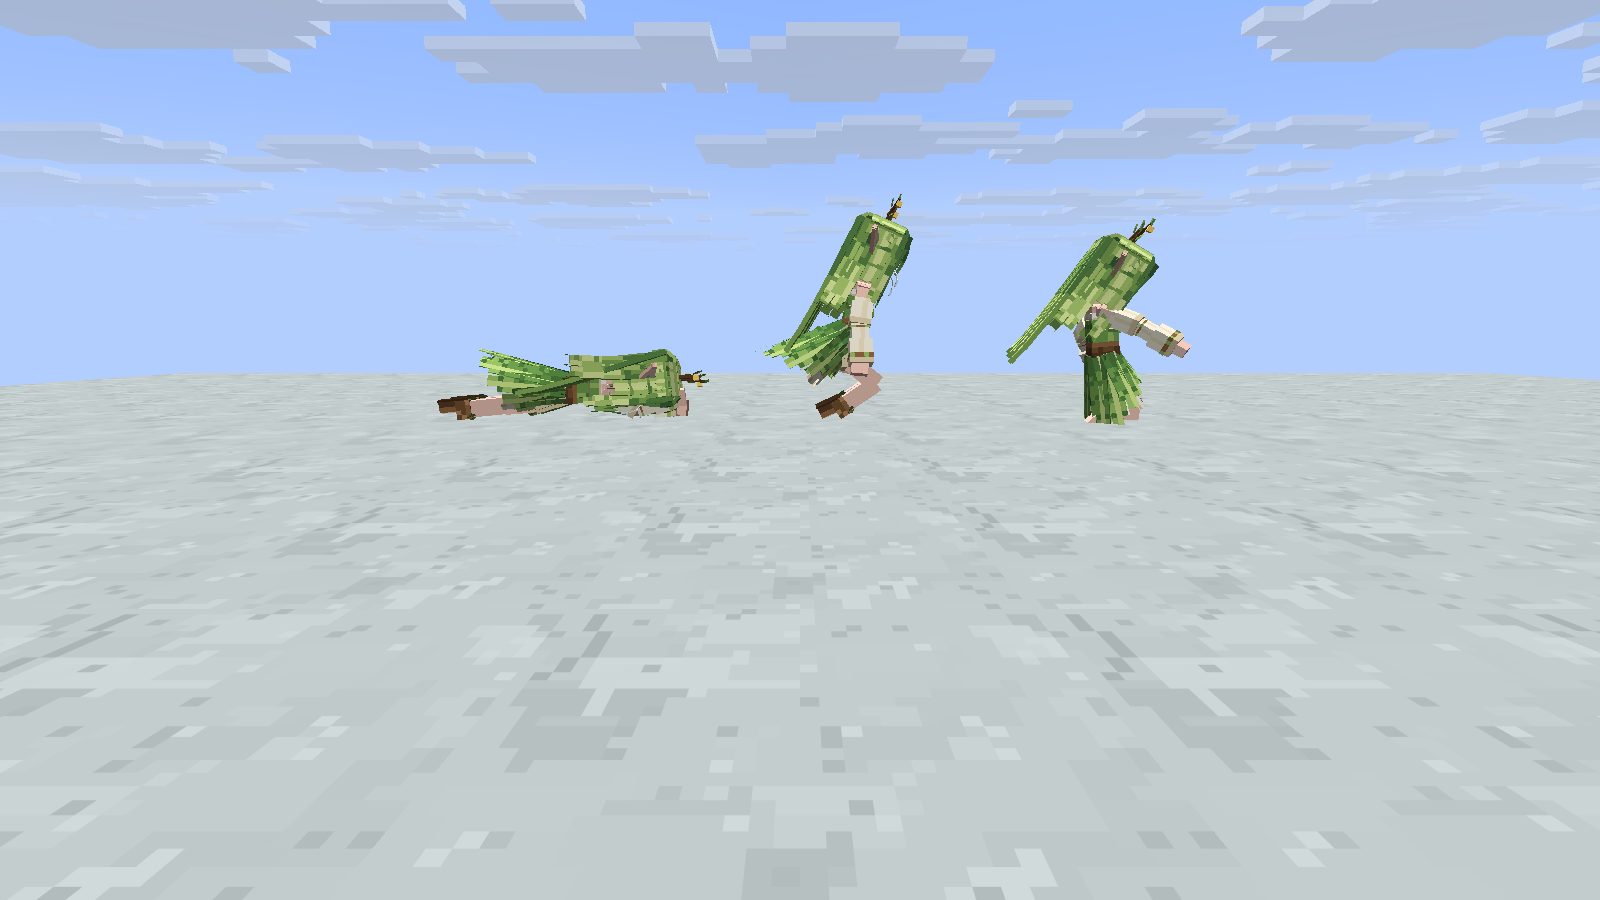
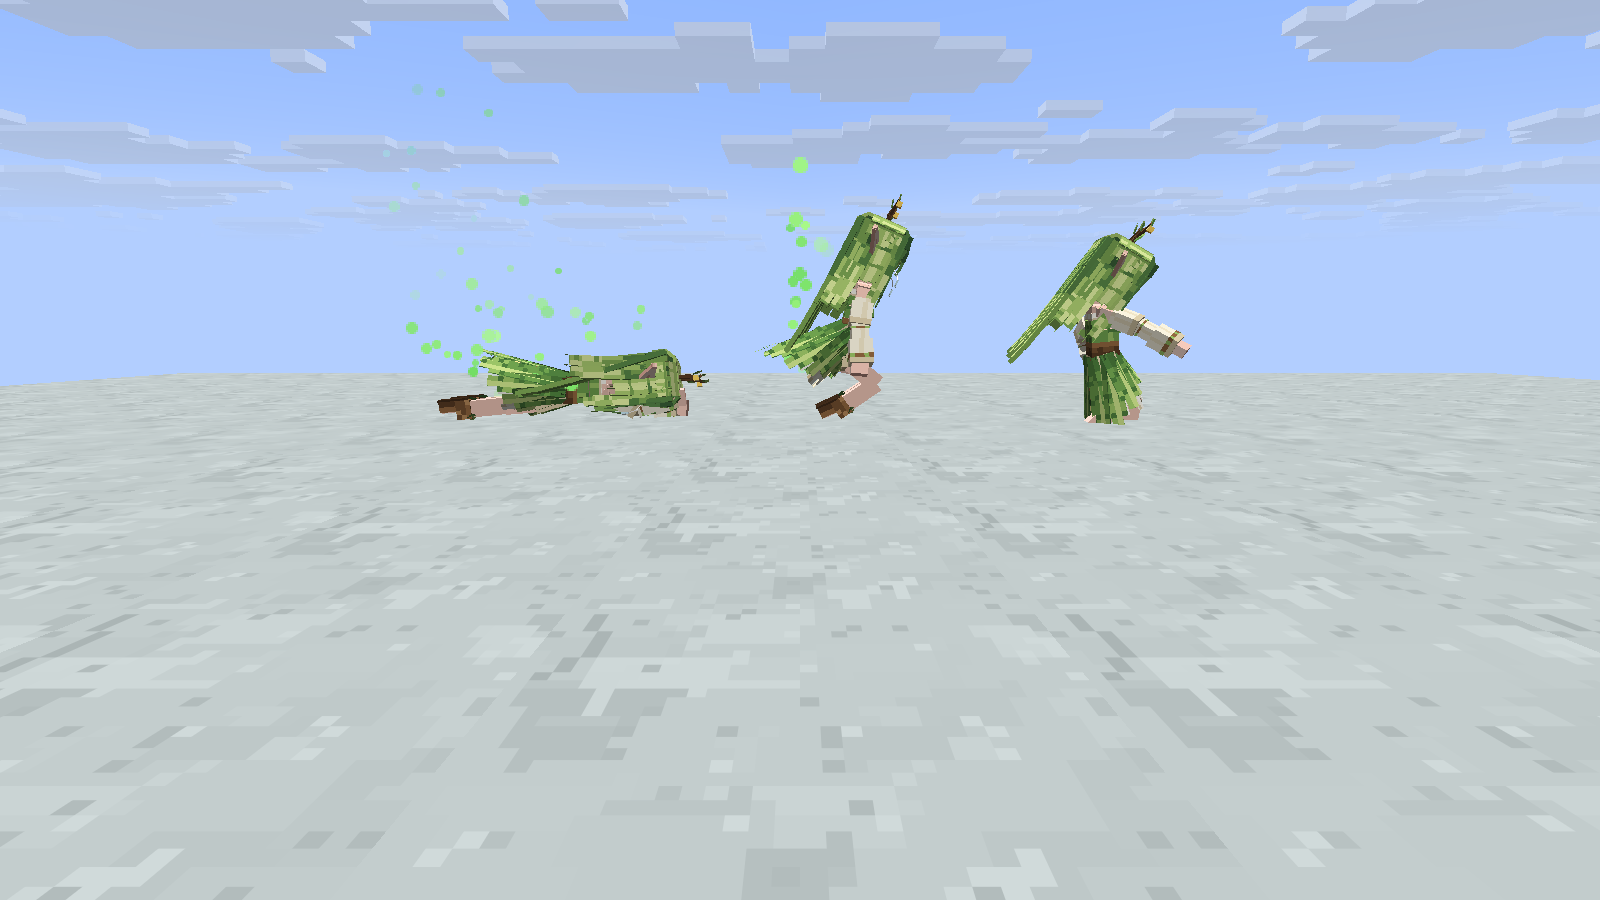
Release green motes as forest elves die and fade away
死亡动画开始后，森林精灵身上不断飘出小的绿色光点；消失时不放原版白烟，化作大量绿色光点。

- 新粒子 forest_elf_spirit：代码绘制的 8×8 白色圆点（tools/forest_elf_resources.py），染成叶绿色，全亮、半透明，向上飘、轻轻摆动、淡出。
- 倒下时每刻一两个，出生点随身体从站立移到倒地；消失时沿倒地的身体散出 100 个。都在客户端生成，不走网络。
- 死亡预览场景加一组截图：精灵刚消失时的光点。

验证：单元 89/89；GameTest forest_elf* 9/9；实际客户端 group:npc_preview 8/8 场景、32/32 检查（连续两次）。

diff --git a/src/main/java/dev/logos/dimension/client/NpcDeathViews.java b/src/main/java/dev/logos/dimension/client/NpcDeathViews.java
@@ -23,7 +23,7 @@ import net.minecraft.world.phys.Vec3;
 /**
  * 实际客户端预览森林精灵的死亡：白瓷台上三个精灵错开时间受到致命一击，截图那一刻从左到右分别是
  * 倒地停住（死亡动画末帧）、跪下中（死亡动画开始约 0.3 秒，已换上茫然挂泪的表情）、最后一击的受击动画中（常态表情）。
- * 两张截图：3/4 与正侧面（精灵朝东）。
+ * 倒下时身上飘出绿色光点；左边的精灵到时间消失时化作大量绿色光点（另截一张）。两组截图：3/4 与正侧面（精灵朝东）。
  */
 public abstract class NpcDeathViews implements UIScenario {
     private static final int COUNT = 3;
@@ -34,6 +34,9 @@ public abstract class NpcDeathViews implements UIScenario {
     private static final int LYING = 44, KNEELING = 15, HIT = 4;
     /** 服务端三个精灵的实体编号，从左到右。 */
     private final int[] ids = new int[COUNT];
+    /** 开始击杀前已生成的绿色光点数。 */
+    private long spiritsBefore;
+    private int burstsBefore;
 
     /** 0 为 3/4，1 为正侧面。 */
     protected int view() {
@@ -102,13 +105,14 @@ public abstract class NpcDeathViews implements UIScenario {
                     p.getAbilities().flying = true;
                     p.onUpdateAbilities();
                 })
-                .waitUntil("三个精灵同步到客户端", ctx -> elves().size() == COUNT).ticks(200)
+                .waitUntil("三个精灵同步到客户端", ctx -> elves().size() == COUNT)
                 .step("对准精灵", ctx -> {
                     var p = Minecraft.getInstance().player;
                     var d = look().subtract(p.getEyePosition());
                     p.setYRot((float) Math.toDegrees(Math.atan2(-d.x, d.z)));
                     p.setXRot((float) -Math.toDegrees(Math.atan2(d.y, Math.hypot(d.x, d.z))));
                 }).ticks(40)
+                .step("记下光点数", ctx -> spiritsBefore = ElfSpiritParticle.created())
                 // 按服务端上实际的死亡刻数等待（步骤之间的耗时不固定）
                 .server("左边的精灵受到致命一击", ctx -> kill(ctx.server().overworld(), 0))
                 .waitUntilServer("左边的精灵倒下了一阵", ctx -> deathTime(ctx.server().overworld(), 0) >= LYING - KNEELING)
@@ -127,11 +131,21 @@ public abstract class NpcDeathViews implements UIScenario {
                     return hidden.containsAll(List.of("Eyes", "Eyelid", "EyeBrow", "Mouth")) && !hidden.contains(ForestElf.DEATH_EXPRESSION)
                             && calm.contains(ForestElf.DEATH_EXPRESSION) && !calm.contains("Eyes");
                 })
+                .check("倒下时身上飘出绿色光点", ctx -> ElfSpiritParticle.created() - spiritsBefore >= 20)
                 .check("动画文件有死亡动画", ctx -> NpcAnimations.available(elves().get(0).npcAnimationAsset()).contains(NpcAnimations.DEATH))
                 .check("离屏截图有实际分辨率", ctx -> {
                     var target = Minecraft.getInstance().getMainRenderTarget();
                     return target.width == 1600 && target.height == 900;
                 })
+                // 左边的精灵到时间消失：化作大量绿色光点（不放原版白烟）
+                .step("记下消失前的光点数", ctx -> {
+                    spiritsBefore = ElfSpiritParticle.created();
+                    burstsBefore = ForestElf.bursts();
+                })
+                // 左边的精灵一化作光点就截图（光点约 2 秒内飘散）
+                .waitUntil("左边的精灵化作光点", ctx -> ForestElf.bursts() > burstsBefore)
+                .screenshot(view() == 1 ? "forest_elf_death_burst_side" : "forest_elf_death_burst")
+                .check("消失时没有被原版白烟代替，散出了大量光点", ctx -> ElfSpiritParticle.created() - spiritsBefore >= ForestElf.BURST / 2)
                 .teardown("恢复界面", ctx -> Minecraft.getInstance().options.hideGui = false);
     }
 

diff --git a/src/main/java/dev/logos/dimension/npc/ForestElf.java b/src/main/java/dev/logos/dimension/npc/ForestElf.java
@@ -8,6 +8,7 @@ import com.geckolib.animatable.manager.AnimatableManager;
 import com.geckolib.util.GeckoLibUtil;
 import com.mojang.serialization.Codec;
 
+import dev.logos.dimension.DimensionParticles;
 import dev.logos.dimension.LogosDimension;
 import dev.logos.dimension.item.NaturesForceItem;
 import net.minecraft.network.syncher.EntityDataAccessor;
@@ -83,7 +84,7 @@ public class ForestElf extends PathfinderMob implements NpcAnimated, NpcPartsHol
     private int actionTicks;
     /**
      * 死亡：先播最后一击的受击动画（约 0.46 秒），再播死亡动画（1.55 秒）并在倒地姿势停约 1 秒，共 {@link #DEATH_TICKS} 刻后消失。
-     * 死亡动画开始的同时换上茫然挂泪的表情。
+     * 死亡动画开始的同时换上茫然挂泪的表情，身上开始飘出绿色光点；消失时化作大量绿色光点，不放原版白烟。
      */
     public static final int DEATH_FACE_TICKS = 9, DEATH_TICKS = 60;
     public static final String DEATH_EXPRESSION = "expression_dazed_tears";
@@ -256,6 +257,60 @@ public class ForestElf extends PathfinderMob implements NpcAnimated, NpcPartsHol
             level().broadcastEntityEvent(this, EntityEvent.POOF);
             remove(RemovalReason.KILLED);
         }
+    }
+
+    /** 倒下的身体长度（格）：发顶约 1.4 格高，倒地后沿面朝方向躺开。 */
+    private static final double BODY_LENGTH = 1.4;
+    /** 死亡动画里从开始跪下到前倒触地的刻数（约 0.95 秒）。 */
+    private static final int FALL_TICKS = 19;
+    /** 最后化作光点时生成的数量。 */
+    public static final int BURST = 100;
+    /** 客户端：化作光点的次数（客户端测试用）。 */
+    private static int bursts;
+
+    public static int bursts() {
+        return bursts;
+    }
+
+    /**
+     * 客户端：死亡动画开始后，每刻从身上飘出一两个小的绿色光点。
+     * 光点出生在身体上随机一点：身体从站立渐渐倒向面朝方向，出生点跟着从竖直的一条线移到地上的一条线。
+     */
+    @Override
+    public void tick() {
+        super.tick();
+        if (level().isClientSide() && isDeadOrDying() && deathTime >= DEATH_FACE_TICKS && deathTime < DEATH_TICKS) {
+            int n = random.nextFloat() < .6f ? 1 : 2;
+            for (int i = 0; i < n; i++) spirit(.015, .02 + random.nextDouble() * .02);
+        }
+    }
+
+    /** 身上随机一点，按倒下的进度在站立与躺倒之间插值。 */
+    private double[] bodyPoint() {
+        double fall = Math.clamp((deathTime - DEATH_FACE_TICKS) / (double) FALL_TICKS, 0, 1);
+        fall = fall * fall * fall;
+        double t = random.nextDouble() * BODY_LENGTH, yaw = Math.toRadians(yBodyRot);
+        double fx = -Math.sin(yaw), fz = Math.cos(yaw);
+        double side = (random.nextDouble() - .5) * .45;
+        double along = t * fall, up = t * (1 - fall) + .15 * fall;
+        return new double[] {getX() + fx * along - fz * side, getY() + up, getZ() + fz * along + fx * side};
+    }
+
+    private void spirit(double spread, double rise) {
+        double[] p = bodyPoint();
+        level().addParticle(DimensionParticles.ELF_SPIRIT.get(), p[0], p[1], p[2],
+                (random.nextDouble() - .5) * 2 * spread, rise, (random.nextDouble() - .5) * 2 * spread);
+    }
+
+    /** 消失时不放原版的白烟，改为从身上散出大量绿色光点。 */
+    @Override
+    public void handleEntityEvent(byte id) {
+        if (id == EntityEvent.POOF) {
+            bursts++;
+            for (int i = 0; i < BURST; i++) spirit(.09, .03 + random.nextDouble() * .07);
+            return;
+        }
+        super.handleEntityEvent(id);
     }
 
     @Override

diff --git a/src/main/java/dev/logos/dimension/client/ElfSpiritParticle.java b/src/main/java/dev/logos/dimension/client/ElfSpiritParticle.java
@@ -1,0 +1,86 @@
+package dev.logos.dimension.client;
+
+import dev.logos.dimension.DimensionParticles;
+import dev.logos.dimension.LogosDimension;
+import net.minecraft.client.multiplayer.ClientLevel;
+import net.minecraft.client.particle.ParticleProvider;
+import net.minecraft.client.particle.SingleQuadParticle;
+import net.minecraft.client.particle.SpriteSet;
+import net.minecraft.core.particles.SimpleParticleType;
+import net.minecraft.util.Mth;
+import net.minecraft.util.RandomSource;
+import net.neoforged.api.distmarker.Dist;
+import net.neoforged.bus.api.SubscribeEvent;
+import net.neoforged.fml.common.EventBusSubscriber;
+import net.neoforged.neoforge.client.event.RegisterParticleProvidersEvent;
+
+/**
+ * 森林精灵倒下时从身上飘出的绿色光点：小、全亮、半透明，带着初速度散开后慢慢向上飘、轻轻左右摆，淡入淡出。
+ * 贴图是代码绘制的白色实心圆点（tools/forest_elf_resources.py），这里染成叶绿色。由 {@link dev.logos.dimension.npc.ForestElf} 在客户端生成。
+ */
+@EventBusSubscriber(modid = LogosDimension.ID, value = Dist.CLIENT)
+public final class ElfSpiritParticle extends SingleQuadParticle {
+    /** 生成过的光点数（客户端测试用）。 */
+    private static long created;
+    private final float baseSize;
+    private final double sway;
+
+    private ElfSpiritParticle(ClientLevel level, double x, double y, double z, double dx, double dy, double dz, SpriteSet sprites,
+                              RandomSource random) {
+        super(level, x, y, z, sprites.first());
+        xd = dx;
+        yd = dy;
+        zd = dz;
+        lifetime = 28 + random.nextInt(24);
+        baseSize = quadSize = (.035f + random.nextFloat() * .035f);
+        sway = random.nextDouble() * Math.PI * 2;
+        hasPhysics = false;
+        // 叶绿到嫩绿之间
+        float t = random.nextFloat();
+        setColor(Mth.lerp(t, .42f, .70f), Mth.lerp(t, .86f, 1f), Mth.lerp(t, .36f, .55f));
+        alpha = 0;
+        created++;
+    }
+
+    public static long created() {
+        return created;
+    }
+
+    @SubscribeEvent
+    static void providers(RegisterParticleProvidersEvent event) {
+        event.registerSpriteSet(DimensionParticles.ELF_SPIRIT.get(), ElfSpiritParticle::provider);
+    }
+
+    private static ParticleProvider<SimpleParticleType> provider(SpriteSet sprites) {
+        return (options, level, x, y, z, dx, dy, dz, random) -> new ElfSpiritParticle(level, x, y, z, dx, dy, dz, sprites, random);
+    }
+
+    @Override
+    public void tick() {
+        xo = x;
+        yo = y;
+        zo = z;
+        if (age++ >= lifetime) {
+            remove();
+            return;
+        }
+        // 初速度很快衰减，之后以向上漂浮为主，带一点左右摆动
+        xd = xd * .9 + Math.cos(sway + age * .25) * .0015;
+        zd = zd * .9 + Math.sin(sway + age * .25) * .0015;
+        yd = yd * .9 + .0025;
+        move(xd, yd, zd);
+        float life = (float) age / lifetime;
+        alpha = Math.min(1, age / 4f) * (1 - life * life);
+        quadSize = baseSize * (1 - .4f * life);
+    }
+
+    @Override
+    public Layer getLayer() {
+        return Layer.TRANSLUCENT;
+    }
+
+    @Override
+    public int getLightCoords(float partialTick) {
+        return 0xF000F0;
+    }
+}

diff --git a/tools/forest_elf_resources.py b/tools/forest_elf_resources.py
@@ -1,4 +1,4 @@
-"""森林精灵的资源：刷怪蛋（代码绘制）与语音（按素材标签归类、转成 ogg、写 sounds.json）。
+"""森林精灵的资源：刷怪蛋与倒下时的光点（代码绘制）、语音（按素材标签归类、转成 ogg、写 sounds.json）。
 
     python tools/forest_elf_resources.py [--voices <素材目录>] [--ffmpeg <ffmpeg 路径>]
 
@@ -71,6 +71,29 @@ def spawn_egg():
           {"parent": "minecraft:item/generated", "textures": {"layer0": "logos_dimension:item/forest_elf_spawn_egg"}})
     write(ASSETS / "items/forest_elf_spawn_egg.json",
           {"model": {"type": "minecraft:model", "model": "logos_dimension:item/forest_elf_spawn_egg"}})
+
+
+def spirit_particle():
+    """8×8 倒下时飘出的光点：实心圆点、外圈一级半透明；白色，游戏里按叶绿色染色（ElfSpiritParticle）。"""
+    rows = [
+        "........",
+        "..+##+..",
+        ".+####+.",
+        ".######.",
+        ".######.",
+        ".+####+.",
+        "..+##+..",
+        "........",
+    ]
+    img = Image.new("RGBA", (8, 8))
+    for y, row in enumerate(rows):
+        for x, ch in enumerate(row):
+            if ch != ".":
+                img.putpixel((x, y), (255, 255, 255, 255 if ch == "#" else 150))
+    path = ASSETS / "textures/particle/forest_elf_spirit.png"
+    path.parent.mkdir(parents=True, exist_ok=True)
+    img.save(path)
+    write(ASSETS / "particles/forest_elf_spirit.json", {"textures": ["logos_dimension:forest_elf_spirit"]})
 
 
 def classify(name):

diff --git a/src/main/java/dev/logos/dimension/DimensionParticles.java b/src/main/java/dev/logos/dimension/DimensionParticles.java
@@ -17,6 +17,8 @@ public final class DimensionParticles {
     public static final DeferredHolder<ParticleType<?>,SimpleParticleType> SIGIL=TYPES.register("journey_woodland_sigil",()->new SimpleParticleType(false));
     public static final DeferredHolder<ParticleType<?>,SimpleParticleType> RIPPLE=TYPES.register("journey_silver_ripple",()->new SimpleParticleType(false));
     public static final DeferredHolder<ParticleType<?>,SimpleParticleType> WISP=TYPES.register("journey_water_wisp",()->new SimpleParticleType(false));
+    /** 森林精灵倒下时飘出的绿色光点（ForestElf 在客户端生成，不走网络）。 */
+    public static final DeferredHolder<ParticleType<?>,SimpleParticleType> ELF_SPIRIT=TYPES.register("forest_elf_spirit",()->new SimpleParticleType(false));
     public static void register(IEventBus bus){TYPES.register(bus);}
     private DimensionParticles(){}
 }

diff --git a/VERIFICATION.md b/VERIFICATION.md
@@ -9,15 +9,16 @@
 - **动画**：维护者在 Blockbench 里做的 `death`（仓库外 `forest-elf-model/forest_elf/Animation/forest_elf_death.bbmodel`，1.55 秒，跪下再向前倒地）由 `tools/forest_elf_animations.py` 换算进动画文件；与维护者导出的 `forest_elf_death.animation.json` 逐关键帧比对，差为 0。
 - **衔接**：主控制器在死亡时先播一遍 `attacked`（最后一击的受击），再播 `death` 并停在最后一帧。
 - **表情**：`expression_dazed_tears`（仓库外 `expressions/`）由 `tools/forest_elf_expressions.py` 并进模型（8 根骨骼、25 个方块，挂在 `Head` 下）与贴图（放在原贴图未使用的 (96, 104)），登记在零件表 `expressions`。死亡动画开始的同时（第 9 刻）显示它、隐藏常态眼眉嘴。重复运行结果不变。
-- **原版效果**：有死亡动画的 NPC 不再染红、不向侧面倒下、不叠加视线；死亡时停止手部与剧情动作。精灵 60 刻（动画播完后在地上停约 1 秒）才化烟消失。倒下的精灵不再拿出弓。
+- **原版效果**：有死亡动画的 NPC 不再染红、不向侧面倒下、不叠加视线；死亡时停止手部与剧情动作。精灵 60 刻（动画播完后在地上停约 1 秒）才消失。倒下的精灵不再拿出弓。
+- **粒子**：新粒子 `forest_elf_spirit`（代码绘制的 8×8 白色圆点，染成叶绿色，全亮、半透明，向上飘、轻轻摆动、淡出）。死亡动画开始后每刻从身上飘出一两个，出生点随身体从站立移到倒地；消失时不放原版白烟，沿倒地的身体散出 100 个。都在客户端生成，不走网络。
 
 | 层级 | 结果 |
 | --- | --- |
 | 单元 | **89/89** 通过；新增：表情平时隐藏、给出时替换常态眼嘴且不参与抽取，表情挂在 `Head` 下；死亡动画停在最后一帧 |
 | 世界（GameTest `logos_dimension:forest_elf*`） | **9/9** 通过；新增 `forest_elf_death_lingers`：一击致命后第 9 刻起才换表情，满 60 刻才消失 |
-| 实际客户端（`group:npc_preview`） | **8/8 场景、28/28 检查**通过；新增两个死亡场景：三个精灵错开受到致命一击，检查死亡动画播完前不消失、客户端按死亡刻数换表情、常态眼嘴被隐藏；人工查看截图 |
+| 实际客户端（`group:npc_preview`） | **8/8 场景、32/32 检查**通过，连续两次；新增两个死亡场景：三个精灵错开受到致命一击，检查死亡动画播完前不消失、客户端按死亡刻数换表情、常态眼嘴被隐藏、倒下时飘出光点、消失时散出大量光点；人工查看截图 |
 
-截图 `docs/screenshots/npc-preview/forest-elf-death.png`（3/4）与 `forest-elf-death-side.png`（侧面）：从左到右是倒地停住、跪下中（挂泪表情）、受击中；都没有染红或侧倒。
+截图 `docs/screenshots/npc-preview/forest-elf-death.png`（3/4）与 `forest-elf-death-side.png`（侧面）：从左到右是倒地停住（身上飘出光点）、跪下中（挂泪表情）、受击中；都没有染红或侧倒。`forest-elf-death-burst.png` 与 `forest-elf-death-burst-side.png`：左边的精灵刚消失，化作一团绿色光点，没有白烟。
 
 注意：以后从 `forest-elf-model` 重新合并并复制模型、贴图后，要再跑 `tools/forest_elf_expressions.py` 与 `tools/forest_elf_animations.py`，否则表情和死亡动画会丢。
 

diff --git a/docs/NPC_RACE_FOREST_ELF.md b/docs/NPC_RACE_FOREST_ELF.md
@@ -136,7 +136,7 @@
   - 被攻击时会叫附近的精灵一起还手；玩家的 Logos 使魔不在敌我名单里。
 - **平时不拿武器**：弓收着，手上是空的；有了目标才拿出来，目标没了或受伤之后再警戒 5 秒，期间弓不收起。正在拉弓时也不会收。
 - 掉落：弓不掉落。
-- **死亡**：最后一击先播完受击动画，再跪下、向前倒地（维护者制作的 `death`，1.55 秒），在地上停约 1 秒后化烟消失（共 60 刻）。不变红，也不向侧面倒下。死亡动画开始的同时换上茫然挂泪的表情。倒下的精灵不再拿出弓。
+- **死亡**：最后一击先播完受击动画，再跪下、向前倒地（维护者制作的 `death`，1.55 秒），在地上停约 1 秒后化烟消失（共 60 刻）。不变红，也不向侧面倒下。死亡动画开始的同时换上茫然挂泪的表情，身上开始飘出小的绿色光点；消失时不放原版白烟，化作大量绿色光点。倒下的精灵不再拿出弓。
 
 ### 8.4 治疗与魔力
 

diff --git a/docs/NPC_ANIMATION_LIST.md b/docs/NPC_ANIMATION_LIST.md
@@ -82,7 +82,7 @@
 | `greet`（精灵版） | 右手抚胸、微微欠身的林间礼，代替通用挥手。**有（自绘）** | `misc` | 中 |
 | `alert` | 发现敌人：耳朵竖起、身体前倾，配「警觉」语音 | `misc` | 低 |
 | `death`（精灵版） | 跪下再向前倒地，死亡动画开始时换上茫然挂泪的表情（`expression_dazed_tears`）。**有** | 主状态 | 高 |
-| 化作落叶 | 倒地后消散成落叶与绿色光点，代替原版青烟（粒子由我做） | 粒子 | 低 |
+| 绿色光点 | 死亡动画开始后身上不断飘出小的绿色光点；消失时化作大量绿色光点，代替原版白烟。**有** | 粒子 | — |
 | `ladder_*`（绳梯版） | 双手交替拉绳、脚踩绳结，比通用爬梯更轻盈 | 主状态 | 低（通用版先用着） |
 
 ## 3. 需要代码配合的部分（我来做）
